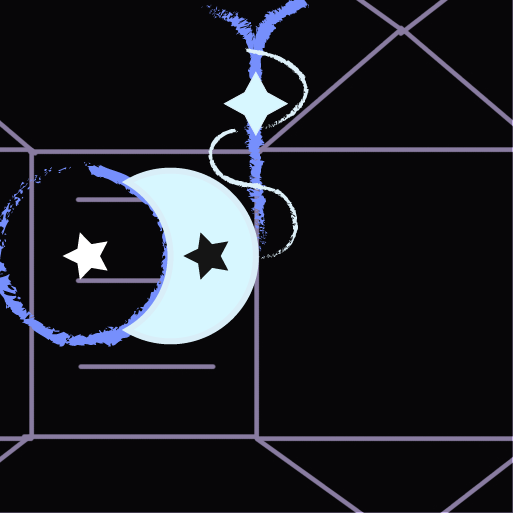
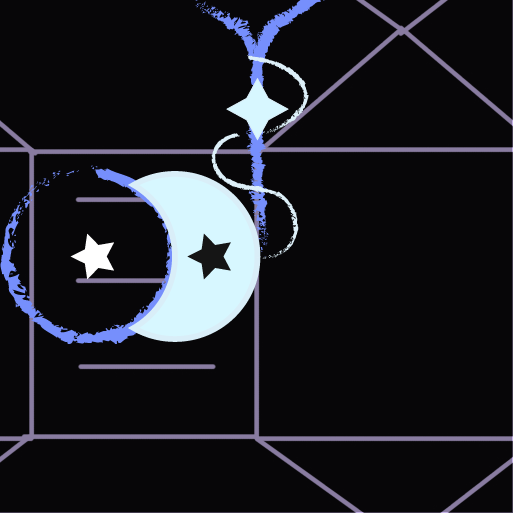
Cambio de diseño de azulejos

diff --git a/sketch.js b/sketch.js
@@ -1,5 +1,5 @@
 const celdas = [];
-const RETICULA = 12;
+const RETICULA = 8;
 
 let ancho; //alto de celda
 let alto;//anchura de celda

diff --git a/index.html b/index.html
@@ -17,7 +17,6 @@
             justify-content: center;
             align-items: center;
         }
-
     </style>
 </head>
 
